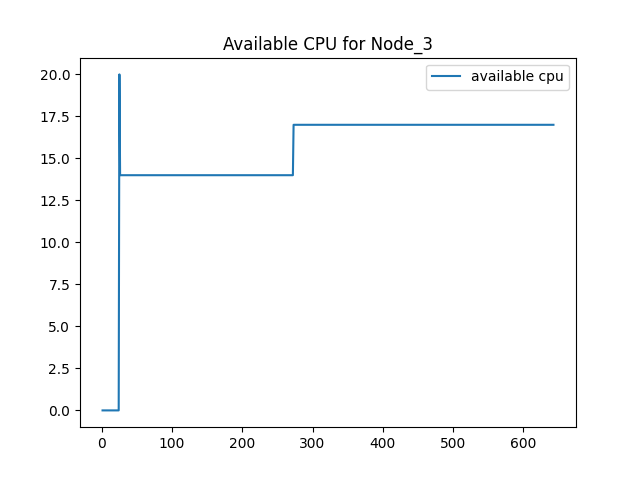
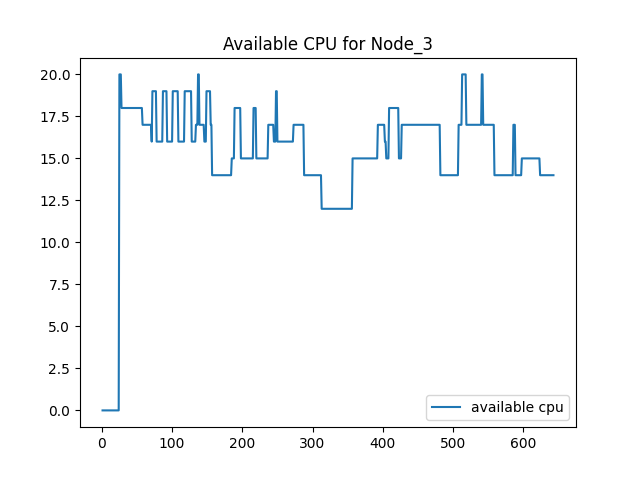
remove ms Temp, finish common pool

Changed region(s): [[0.1875, 0.1562, 0.6562, 0.4375], [0.6562, 0.125, 0.875, 0.375], [0.6562, 0.8125, 0.9062, 0.875]]

diff --git a/hpa.py b/hpa.py
@@ -25,35 +25,37 @@ class HPA:
 		while self.running:
 			with self.apiServer.etcdLock:
 				#deployment = self.apiServer.GetDepByLabel(self.deploymentLabel)
-				microservice = self.apiServer.GetMSTemplateByLabel(self.microserviceLabel)
-				if microservice == None:
-					self.running = False
-					break
+				#microservice = self.apiServer.GetMSTemplateByLabel(self.microserviceLabel)
+				#if microservice == None:
+					#self.running = False
+					#break
 
-				#microservice = self.apiServer.GetMsByMsLabel(self.microserviceLabel)
-				#eps = self.apiServer.GetEndPointsByLabel(self.deploymentLabel, ms)
-				eps = self.apiServer.GetEndPoints()
-				pods = []
-				for pod in self.apiServer.GetPending():
-						if pod.microserviceLabel == self.microserviceLabel:
-							pods.append(pod)
-				for ep in eps:
-					if ep.microserviceLabel == self.microserviceLabel:
-						pods.append(self.apiServer.GetPod(ep))
-				availableCPUS = 0
-				for pod in pods:
-					availableCPUS+=pod.available_cpu
-				if len(pods) == 0:
-					averageUtil = 0
-				else:
-					averageUtil = (microservice.cpuCost*len(pods)-availableCPUS)/(microservice.cpuCost*len(pods))
-				newReps = math.ceil(microservice.currentReplicas * averageUtil/self.setPoint)
-				if newReps < self.minReps:
-					microservice.expectedReplicas = self.minReps
-				elif newReps > self.maxReps:
-					microservice.expectedReplicas = self.maxReps
-				else:
-					microservice.expectedReplicas = newReps
+				microservice = self.apiServer.GetMsByMsLabel(self.microserviceLabel)
+
+				if microservice is not None:
+					#eps = self.apiServer.GetEndPointsByLabel(self.deploymentLabel, ms)
+					eps = self.apiServer.GetEndPoints()
+					pods = []
+					for pod in self.apiServer.GetPending():
+							if pod.microserviceLabel == self.microserviceLabel:
+								pods.append(pod)
+					for ep in eps:
+						if ep.microserviceLabel == self.microserviceLabel:
+							pods.append(self.apiServer.GetPod(ep))
+					availableCPUS = 0
+					for pod in pods:
+						availableCPUS+=pod.available_cpu
+					if len(pods) == 0:
+						averageUtil = 0
+					else:
+						averageUtil = (microservice.cpuCost*len(pods)-availableCPUS)/(microservice.cpuCost*len(pods))
+					newReps = math.ceil(microservice.currentReplicas * averageUtil/self.setPoint)
+					if newReps < self.minReps:
+						microservice.expectedReplicas = self.minReps
+					elif newReps > self.maxReps:
+						microservice.expectedReplicas = self.maxReps
+					else:
+						microservice.expectedReplicas = newReps
 					
 			time.sleep(self.time)
 		print("HPA Shutdown")

diff --git a/api_server.py b/api_server.py
@@ -33,18 +33,20 @@ class APIServer:
 		mslist = re.split("\+|\.|\(|\)", deployment.msPath)
 		while '' in mslist: mslist.remove('')
 		deployment.msList = mslist
-		for ms in deployment.msList:
-			for msTemplate in self.etcd.microserviceTemplates:
-				if msTemplate.microserviceLabel == ms:
-					depMS = copy.copy(msTemplate)
-					depMS.deploymentLabel = deployment.deploymentLabel
-					self.etcd.microserviceList.append(depMS)
+		# for depMS in deployment.msList:
+		# 	for ms in self.etcd.microserviceList:
+		# 		if ms.microserviceLabel == depMS:
+					#ms.deploymentLabel = deployment.deploymentLabel
+					#print(ms.deploymentLabel)
+					#depMS.deploymentLabel = deployment.deploymentLabel
+					#self.etcd.microserviceList.append(depMS)
 		#print("Deployment " + deployment.deploymentLabel + " created")
 
 #CreateMicroserviceTemplate creates a Microservice template object from a list of arguments and stores it in etcd.
 	def CreateMicroserviceTemplate(self, info):
 		microservice = Microservice(info)
-		self.etcd.microserviceTemplates.append(microservice)
+		#self.etcd.microserviceTemplates.append(microservice)
+		self.etcd.microserviceList.append(microservice)
 
 # CreateEndpoint creates an EndPoint object using information from a provided Pod and Node and appends it 
 # to the endPointList in etcd
@@ -108,7 +110,7 @@ class APIServer:
 		if len(micro) == 1:
 			return micro[0]
 		else:
-			print('No such micro found in etcd micro list for' + msLabel )
+			print('2 No such micro found in etcd micro list for' + msLabel )
 			
 	def GetMSByLabel(self, msLabel, depLabel):
 		microservices = list(filter(lambda x: x.microserviceLabel == msLabel, filter(lambda x: x.deploymentLabel == depLabel, self.etcd.microserviceList)))

diff --git a/runSimulation.py b/runSimulation.py
@@ -126,7 +126,7 @@ for command in commands:
 				graphedDep.requests[0].append(len(dep.handledReqs)-len(failReqs))
 				graphedDep.requests[1].append(len(failReqs))
 				for ms in dep.msList:
-					curMS = apiServer.GetMSByLabel(ms, dep.deploymentLabel)
+					curMS = apiServer.GetMsByMsLabel(ms)
 					graphedMS = next(graphingMS for graphingMS in graphedDep.microservices if graphingMS.label == ms)
 					graphedMS.expectedList.append(curMS.expectedReplicas)
 					pendingPods = list(filter(lambda x: x.microserviceLabel == ms, apiServer.etcd.pendingPodList))
@@ -140,7 +140,7 @@ for command in commands:
 time.sleep(30)
 print("Shutting down threads")
 
-assert sum([1, 2, 3]) == 5, "Should be 6"
+#assert sum([1, 2, 3]) == 5, "Should be 6"
 
 depController.running = False
 scheduler.running = False
@@ -173,9 +173,9 @@ for dep in deploymentGraphing:
 		plt.plot(steps, ms.crashedList, label = "Failed pods")
 		plt.plot(steps, ms.pendingList, label = "Pending pods")
 		plt.plot(steps, ms.expectedList, label = "Expected pods")
-		plt.title("Pods for "+ dep.deploymentLabel+", "+ms.label)
+		plt.title("Pods for"+ms.label)
 		plt.legend()
-		plt.savefig(dep.deploymentLabel+ms.label+".png")
+		plt.savefig(ms.label+".png")
 		plt.show()
 
 		

diff --git a/load_balancer.py b/load_balancer.py
@@ -21,10 +21,12 @@ class LoadBalancer:
 		
 		def ThreadHandler(req, serList):
 			for ser in serList:
+				#print('ser is ' + ser)
 				ms=ser.replace('(','').replace(')','')
 				self.balance(req, ms)
 		self.indexArray = self.deployment.msList.copy()
 		for i in range (0, len(self.indexArray)):
+			#print(self.indexArray[i])
 			self.indexArray[i] = 0
 		while self.running:
 			self.deployment.waiting.wait()
